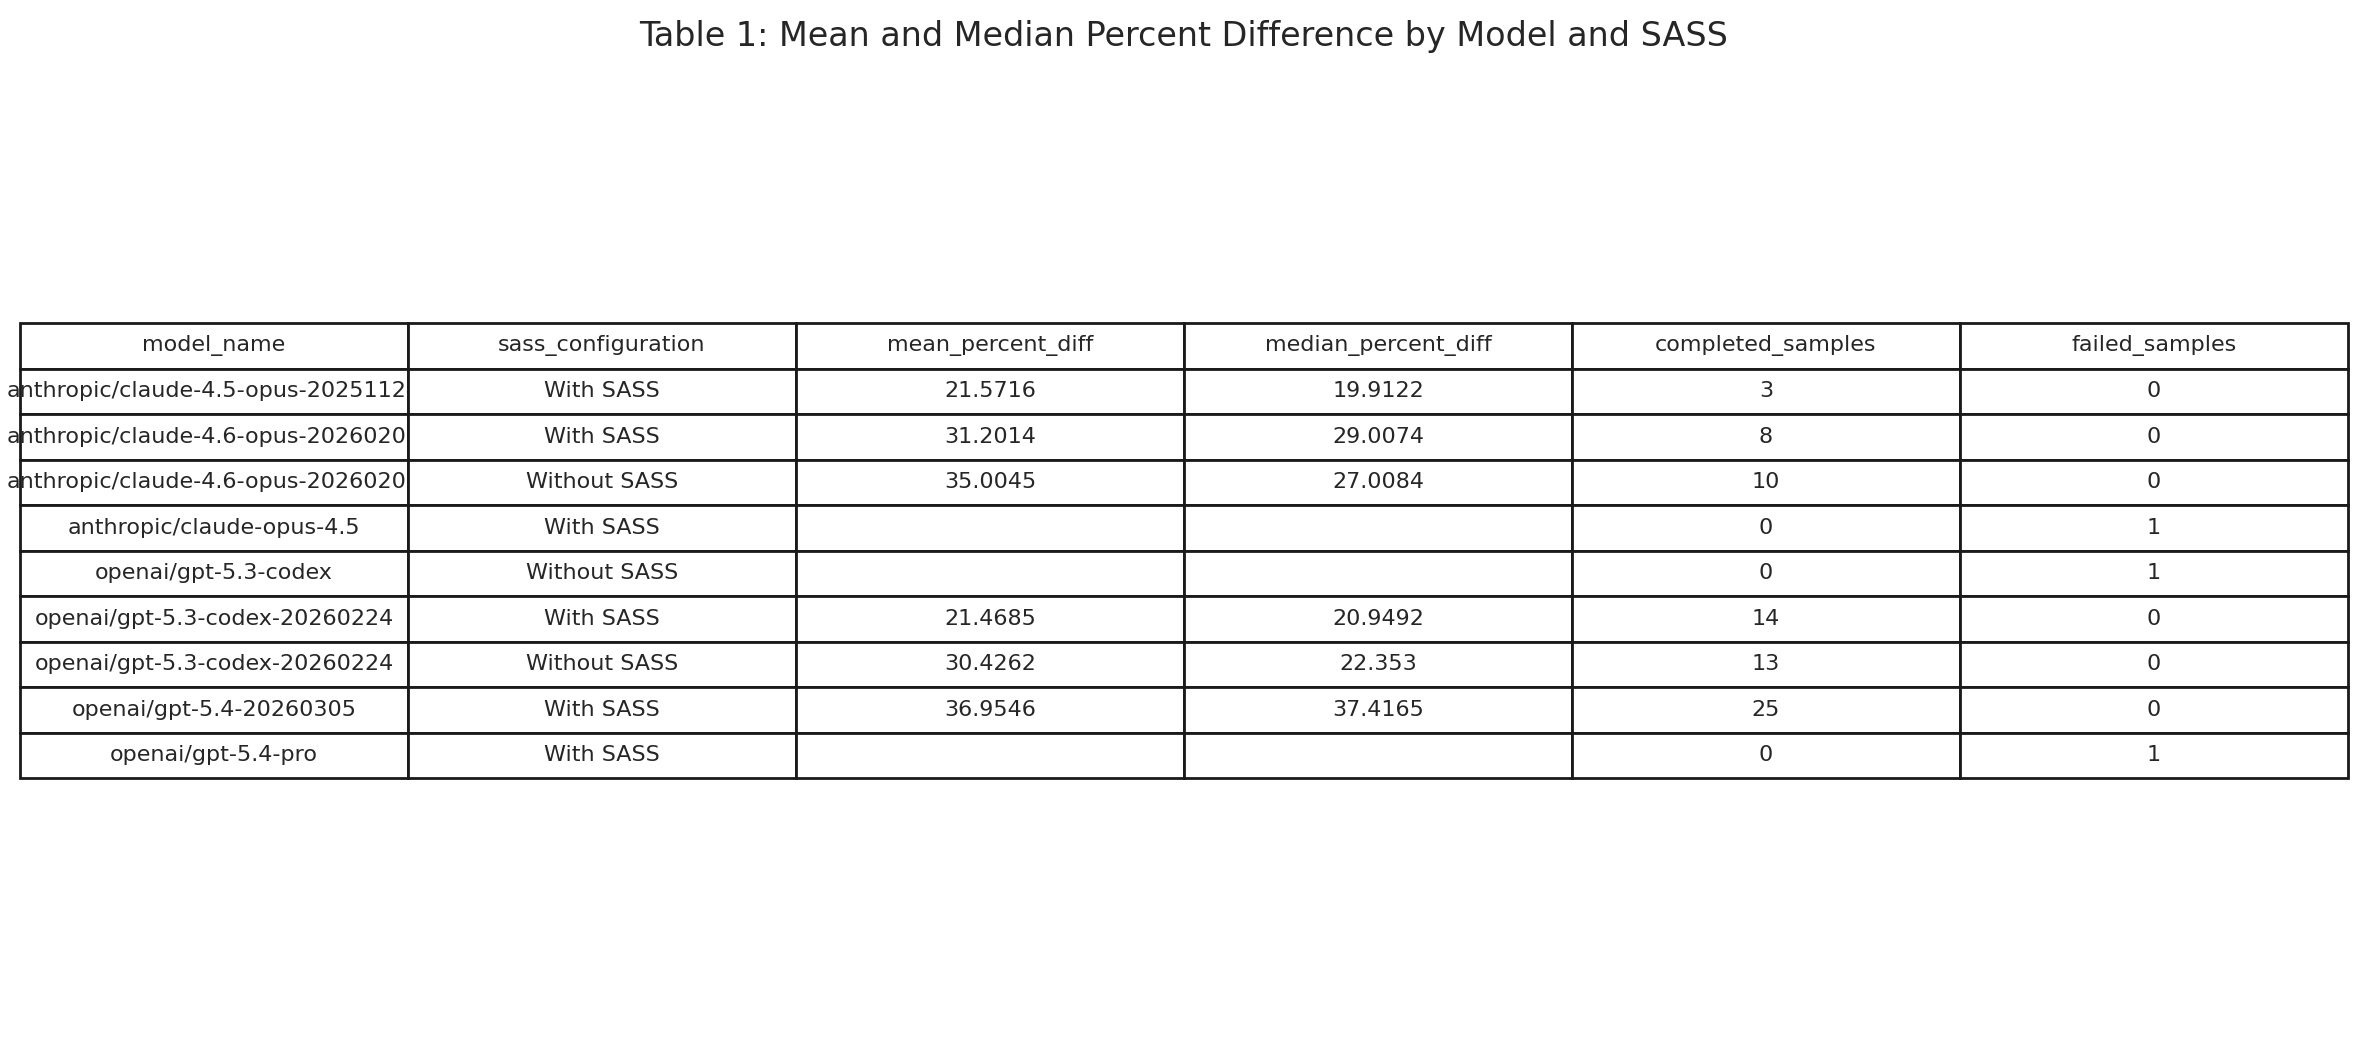
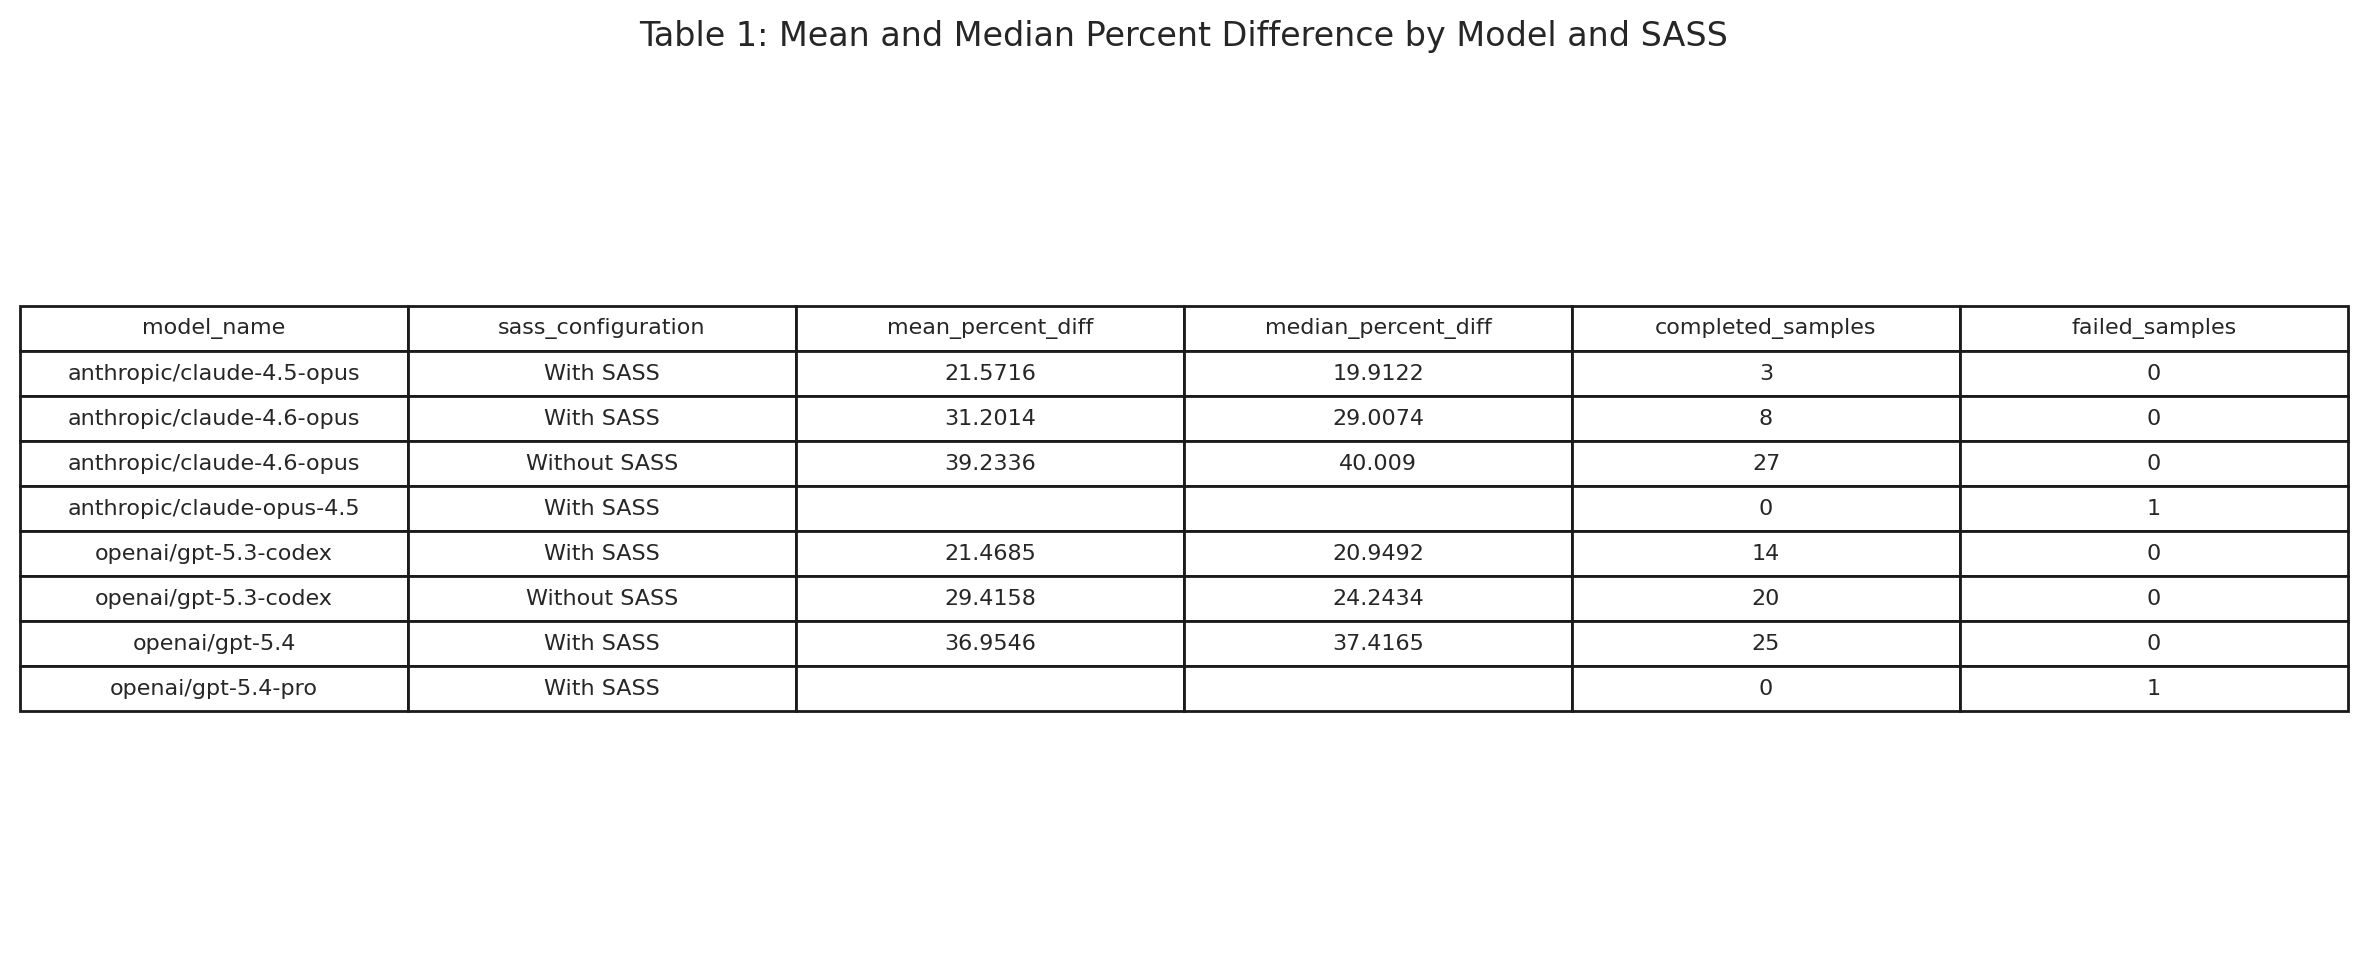
simplified plots further

Changed region(s): [[0.0, 0.3027, 1.0, 0.7568], [0.2812, 0.0, 0.75, 0.0605]]

diff --git a/experiments/direct-prompting/visualize_results.py b/experiments/direct-prompting/visualize_results.py
@@ -37,6 +37,7 @@ ensure_postgres_running = db_manager_mod.ensure_postgres_running
 THREAD_PATTERN = re.compile(
 	r"_(?P<gpu>A100|3080|H100|A10)_(?P<safe_model>.+)_(?P<sass>withsass|nosass)_trial(?P<trial>\d+)(?:_DRYRUN(?:\d+)?)?$"
 )
+MODEL_DATE_SUFFIX_PATTERN = re.compile(r"-\d{8}$")
 
 METRIC_LABELS = {
 	"fp16": "FP16 FLOPs",
@@ -107,8 +108,14 @@ def _safe_filename(value: str) -> str:
 	return re.sub(r"[^A-Za-z0-9._-]+", "_", value).strip("_") or "value"
 
 
+def _normalize_model_name(value: Optional[str]) -> str:
+	if not value:
+		return "unknown-model"
+	return MODEL_DATE_SUFFIX_PATTERN.sub("", value)
+
+
 def _display_model_name(safe_model_name: str) -> str:
-	return safe_model_name.replace("_", "/")
+	return _normalize_model_name(safe_model_name.replace("_", "/"))
 
 
 def _is_dry_run_thread(thread_id: str) -> bool:
@@ -135,7 +142,7 @@ def _thread_metadata(thread_id: str) -> Dict[str, Any]:
 	safe_model_name = match.group("safe_model")
 	return {
 		"gpu": match.group("gpu"),
-		"safe_model_name": safe_model_name,
+		"safe_model_name": _normalize_model_name(safe_model_name),
 		"model_name": _display_model_name(safe_model_name),
 		"use_sass": match.group("sass") == "withsass",
 		"trial": int(match.group("trial")),
@@ -271,7 +278,7 @@ def _extract_completed_records(
 			"program_name": state["program_name"],
 			"kernel_mangled_name": state["kernel_mangled_name"],
 			"kernel_demangled_name": state["kernel_demangled_name"],
-			"model_name": state["llm_model_name"] or metadata["model_name"],
+			"model_name": _normalize_model_name(state["llm_model_name"] or metadata["model_name"]),
 			"safe_model_name": metadata["safe_model_name"],
 			"use_sass": metadata["use_sass"],
 			"gpu": metadata["gpu"],
@@ -334,7 +341,7 @@ def _extract_failed_records(
 				"program_name": partial_state["program_name"],
 				"kernel_mangled_name": partial_state["kernel_mangled_name"],
 				"kernel_demangled_name": partial_state["kernel_demangled_name"],
-				"model_name": partial_state["llm_model_name"] if "llm_model_name" in partial_state else metadata["model_name"],
+				"model_name": _normalize_model_name(partial_state["llm_model_name"] if "llm_model_name" in partial_state else metadata["model_name"]),
 				"safe_model_name": metadata["safe_model_name"],
 				"use_sass": metadata["use_sass"],
 				"gpu": metadata["gpu"],
@@ -415,10 +422,22 @@ def _save_stacked_sample_count_plot(samples_df: pd.DataFrame, output_path: Path)
 	)
 
 	segment_order = [
-		"Completed | Without SASS",
+		"Failed | With SASS",
 		"Completed | With SASS",
 		"Failed | Without SASS",
+		"Completed | Without SASS",
+	]
+	segment_colors = {
+		"Completed | With SASS": "#2e7d32",
+		"Completed | Without SASS": "#81c784",
+		"Failed | With SASS": "#c62828",
+		"Failed | Without SASS": "#ef9a9a",
+	}
+	legend_order = [
+		"Completed | With SASS",
+		"Completed | Without SASS",
 		"Failed | With SASS",
+		"Failed | Without SASS",
 	]
 	counts = (
 		plot_df.groupby(["model_name", "status_segment"]).size().unstack(fill_value=0).reindex(columns=segment_order, fill_value=0)
@@ -426,35 +445,47 @@ def _save_stacked_sample_count_plot(samples_df: pd.DataFrame, output_path: Path)
 	model_names = counts.index.tolist()
 
 	sns.set_theme(style="whitegrid")
-	fig, ax = plt.subplots(figsize=(max(10, 1.8 * max(len(model_names), 1)), 7))
-	colors = sns.color_palette("Set2", n_colors=len(segment_order))
-	bottoms = np.zeros(len(model_names))
+	fig_height = max(7, 0.65 * max(len(model_names), 1) + 1.5)
+	fig, ax = plt.subplots(figsize=(14, fig_height))
+	lefts = np.zeros(len(model_names))
 
-	for segment, color in zip(segment_order, colors):
+	for segment in segment_order:
 		values = counts[segment].to_numpy()
-		bars = ax.bar(model_names, values, bottom=bottoms, label=segment, color=color, edgecolor="white")
-		for bar, value, bottom in zip(bars, values, bottoms):
+		bars = ax.barh(model_names, values, left=lefts, label=segment, color=segment_colors[segment], edgecolor="white")
+		for bar, value, left in zip(bars, values, lefts):
 			if value <= 0:
 				continue
 			ax.text(
-				bar.get_x() + bar.get_width() / 2.0,
-				bottom + value / 2.0,
+				left + value / 2.0,
+				bar.get_y() + bar.get_height() / 2.0,
 				f"{int(value)}",
 				ha="center",
 				va="center",
 				fontsize=8,
 				color="black",
 			)
-		bottoms = bottoms + values
+		lefts = lefts + values
 
-	for model_index, total in enumerate(bottoms):
-		ax.text(model_index, total + 0.5, f"{int(total)}", ha="center", va="bottom", fontsize=10, fontweight="bold")
+	for model_index, total in enumerate(lefts):
+		ax.text(total + 0.5, model_index, f"{int(total)}", ha="left", va="center", fontsize=10, fontweight="bold")
 
 	ax.set_title("Database Sample Counts by Model and SASS Configuration")
-	ax.set_xlabel("Model Name")
-	ax.set_ylabel("Sample Count")
-	ax.legend(title="Sample Type", bbox_to_anchor=(1.02, 1), loc="upper left")
-	ax.tick_params(axis="x", rotation=30)
+	ax.set_xlabel("Sample Count")
+	ax.set_ylabel("Model Name")
+	handles, labels = ax.get_legend_handles_labels()
+	handle_by_label = dict(zip(labels, handles))
+	ax.legend(
+		[handle_by_label[label] for label in legend_order if label in handle_by_label],
+		[label for label in legend_order if label in handle_by_label],
+		title="Sample Type",
+		bbox_to_anchor=(1.02, 1),
+		loc="upper left",
+	)
+	ax.tick_params(axis="y", pad=12)
+	for label in ax.get_yticklabels():
+		label.set_rotation(0)
+		label.set_horizontalalignment("right")
+	ax.margins(x=0.05)
 	fig.tight_layout()
 	fig.savefig(output_path, dpi=200, bbox_inches="tight")
 	plt.close(fig)

diff --git a/experiments/direct-prompting/visualization-output/table1_model_percent_diff_summary.tex b/experiments/direct-prompting/visualization-output/table1_model_percent_diff_summary.tex
@@ -6,14 +6,13 @@
 \toprule
 model\_name & sass\_configuration & mean\_percent\_diff & median\_percent\_diff & completed\_samples & failed\_samples \\
 \midrule
-anthropic/claude-4.5-opus-20251124 & With SASS & 21.5716 & 19.9122 & 3 & 0 \\
-anthropic/claude-4.6-opus-20260205 & With SASS & 31.2014 & 29.0074 & 8 & 0 \\
-anthropic/claude-4.6-opus-20260205 & Without SASS & 35.0045 & 27.0084 & 10 & 0 \\
+anthropic/claude-4.5-opus & With SASS & 21.5716 & 19.9122 & 3 & 0 \\
+anthropic/claude-4.6-opus & With SASS & 31.2014 & 29.0074 & 8 & 0 \\
+anthropic/claude-4.6-opus & Without SASS & 39.2336 & 40.009 & 27 & 0 \\
 anthropic/claude-opus-4.5 & With SASS &  &  & 0 & 1 \\
-openai/gpt-5.3-codex & Without SASS &  &  & 0 & 1 \\
-openai/gpt-5.3-codex-20260224 & With SASS & 21.4685 & 20.9492 & 14 & 0 \\
-openai/gpt-5.3-codex-20260224 & Without SASS & 30.4262 & 22.353 & 13 & 0 \\
-openai/gpt-5.4-20260305 & With SASS & 36.9546 & 37.4165 & 25 & 0 \\
+openai/gpt-5.3-codex & With SASS & 21.4685 & 20.9492 & 14 & 0 \\
+openai/gpt-5.3-codex & Without SASS & 29.4158 & 24.2434 & 20 & 0 \\
+openai/gpt-5.4 & With SASS & 36.9546 & 37.4165 & 25 & 0 \\
 openai/gpt-5.4-pro & With SASS &  &  & 0 & 1 \\
 \bottomrule
 \end{tabular}
